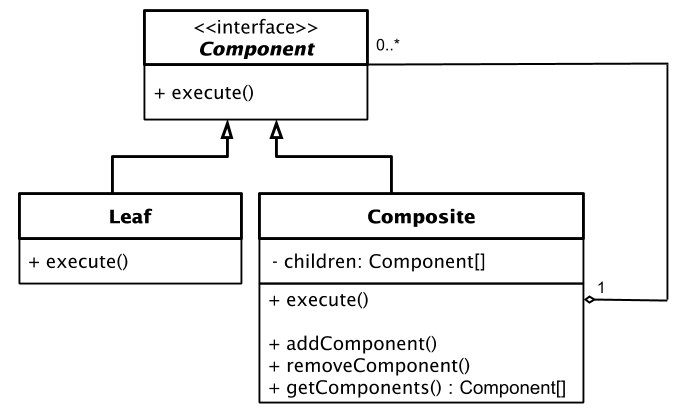
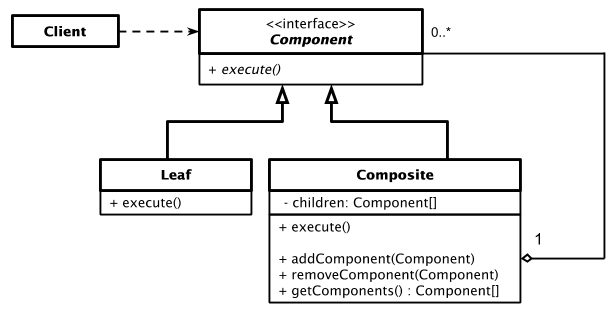
improved 'composite' pattern

Changed region(s): [[0.0, 0.0, 0.9902, 0.9937], [0.0619, 0.0852, 0.1547, 0.1136]]

diff --git a/CompositePattern/ConceptualExample.cpp b/CompositePattern/ConceptualExample.cpp
@@ -11,22 +11,21 @@
  * simple and complex objects of a composition.
  */
 class Component {
-    /**
-     * @var Component
-     */
+
 protected:
     Component* m_parent;
+
+public:
+    Component() : m_parent(nullptr) {}
+    virtual ~Component() {}
+
     /**
      * Optionally, the base Component can declare an interface for setting and
      * accessing a parent of the component in a tree structure. It can also
      * provide some default implementation for these methods.
      */
-
-public:
-    virtual ~Component() {}
-
     void setParent(Component* parent) { m_parent = parent; }
-    Component* setParent() const { return m_parent; }
+    Component* getParent() const { return m_parent; }
 
     /**
      * In some cases, it would be beneficial to define the child-management
@@ -39,8 +38,8 @@ public:
     virtual void remove(Component* component) {}
     
     /**
-     * You can provide a method that lets the client code figure out whether a
-     * component can bear children.
+     * You can provide a method that lets the client code figure out whether
+     * a component can bear children.
      */
     virtual bool isComposite() const { return false; }
 
@@ -54,8 +53,8 @@ public:
 
 
 /**
- * The Leaf class represents the end objects of a composition. A leaf can't have
- * any children.
+ * The Leaf class represents the end objects of a composition.
+ * A leaf can't have any children.
  *
  * Usually, it's the Leaf objects that do the actual work, whereas Composite
  * objects only delegate to their sub-components.
@@ -67,15 +66,14 @@ public:
     }
 };
 
+
 /**
  * The Composite class represents the complex components that may have children.
  * Usually, the Composite objects delegate the actual work to their children and
  * then "sum-up" the result.
  */
 class Composite : public Component {
-    /**
-     * @var Composite
-     */
+
 protected:
     std::list<Component*> m_children;
 
@@ -84,7 +82,7 @@ public:
      * A composite object can add or remove other components (both simple or
      * complex) to or from its child list.
      */
-    void Add(Component* component) {
+    void add(Component* component) {
         m_children.push_back(component);
         component->setParent(this);
     }
@@ -93,10 +91,11 @@ public:
      * Have in mind that this method removes the pointer to the list but doesn't
      * frees the memory, you should do it manually or better use smart pointers.
      */
-    void Remove(Component* component)  {
+    void remove(Component* component)  {
         m_children.remove(component);
         component->setParent(nullptr);
     }
+
     bool isComposite() const override {
         return true;
     }
@@ -109,23 +108,24 @@ public:
      */
     std::string operation() const override {
         std::string result;
-        for (const Component* c : m_children) {
-            if (c == m_children.back()) {
-                result += c->operation();
+        for (const Component* comp : m_children) {
+            if (comp == m_children.back()) {
+                result = result + comp->operation();
             }
             else {
-                result += c->operation() + "+";
+                result = result + comp->operation() + "+";
             }
         }
         return "Branch(" + result + ")";
     }
 };
 
+
 /**
  * The client code works with all of the components via the base interface.
  */
-void ClientCode(Component* component) {
-    std::cout << "RESULT: " << component->operation();
+void clientCode(Component* component) {
+    std::cout << "Result: " << component->operation();
 }
 
 /**
@@ -133,11 +133,11 @@ void ClientCode(Component* component) {
  * base Component class, the client code can work with any component, simple or
  * complex, without depending on their concrete classes.
  */
-void ClientCode2(Component* component1, Component* component2) {
+void clientCode2(Component* component1, Component* component2) {
     if (component1->isComposite()) {
         component1->add(component2);
     }
-    std::cout << "RESULT: " << component1->operation();
+    std::cout << "Result: " << component1->operation();
 }
 
 /**
@@ -148,7 +148,7 @@ void test_conceptual_example() {
 
     Component* simple = new Leaf;
     std::cout << "Client: I've got a simple component:\n";
-    ClientCode(simple);
+    clientCode(simple);
     std::cout << "\n\n";
 
     /**
@@ -168,11 +168,11 @@ void test_conceptual_example() {
     tree->add(branch1);
     tree->add(branch2);
     std::cout << "Client: Now I've got a composite tree:\n";
-    ClientCode(tree);
+    clientCode(tree);
     std::cout << "\n\n";
 
     std::cout << "Client: I don't need to check the components classes even when managing the tree:\n";
-    ClientCode2(tree, simple);
+    clientCode2(tree, simple);
     std::cout << "\n";
 
     delete simple;

diff --git a/CompositePattern/Program.cpp b/CompositePattern/Program.cpp
@@ -23,9 +23,8 @@ int main() {
     _CrtSetDbgFlag(_CRTDBG_ALLOC_MEM_DF | _CRTDBG_LEAK_CHECK_DF);
 
     test_conceptual_example();
-    test_filesystem_01();
-    test_filesystem_02();
-
+    //test_filesystem_01();
+    //test_filesystem_02();
     return 0;
 }
 
